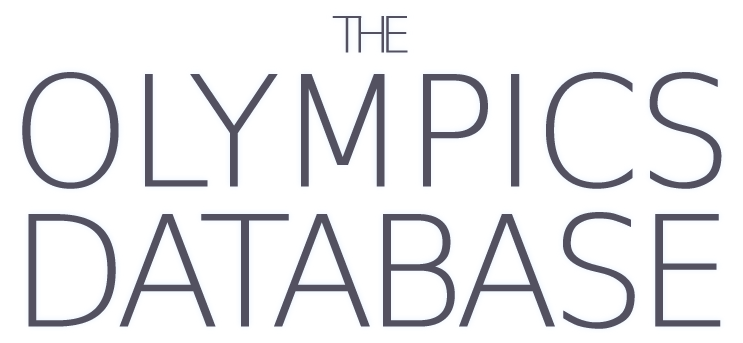
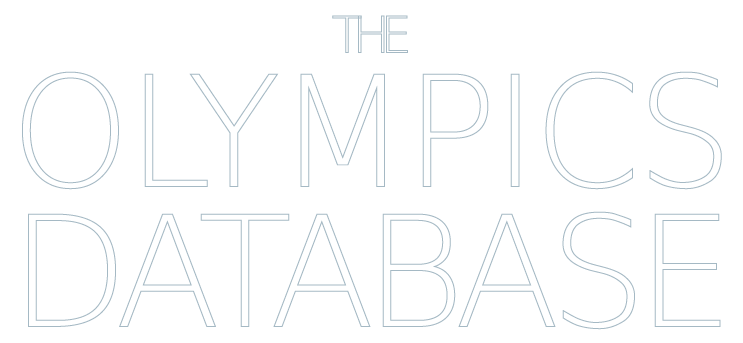
new kikass style

diff --git a/style.css b/style.css
@@ -8,7 +8,7 @@
 }
 
 body {
-    background: #052745;
+    background: #FFFFF;
     margin: 0;
     padding: 0;
 }
@@ -19,15 +19,15 @@ form {
     background: #222 url('img/olympic.png') no-repeat top left;
     background-clip: padding-box;
     
-    border-radius:         3px;
-    -moz-border-radius:    3px;
-    -o-border-radius:      3px;
-    -webkit-border-radius: 3px;
+	border-radius:         5px;
+    -moz-border-radius:    5px;
+    -o-border-radius:      5px;
+    -webkit-border-radius: 5px; 
     
-    box-shadow:         0 1px 5px #000;
-    -moz-box-shadow:    0 1px 5px #000;
-    -o-box-shadow:      0 1px 5px #000;
-    -webkit-box-shadow: 0 1px 5px #000;
+    box-shadow:         0px 0px 2px #000;
+    -moz-box-shadow:    0px 0px 1px #000;
+    -o-box-shadow:      0px 0px 1px #000;
+    -webkit-box-shadow: 0px 0px 1px #000; 
     
     height: 300px;
     margin: 50px auto;
@@ -36,32 +36,15 @@ form {
 }
 
 input:not(.addInfo) {
-    background: transparent;
-    background: rgba(163, 135, 106, 0.15);
-    background-clip: padding-box;
+    background: none;
     
-    border: none;
-    border-radius:         26px;
-    -moz-border-radius:    26px;
-    -o-border-radius:      26px;
-    -webkit-border-radius: 26px;
+    border: 1px solid rgba(255, 255, 255, 0.5);
+    border-radius:         5px;
+    -moz-border-radius:    5px;
+    -o-border-radius:      5px;
+    -webkit-border-radius: 5px;
     
-    box-shadow:         inset 0 0 5px rgba(0, 0, 0, 0.1), 
-                        0 1px 0 rgba(255, 255, 255, 0.5), 
-                        inset 0 1px 2px rgba(0, 0, 0, 0.3), 
-                        0 0 40px rgba(255, 255, 255, 0.3);
-    -moz-box-shadow:    inset 0 0 5px rgba(0, 0, 0, 0.1), 
-                        0 1px 0 rgba(255, 255, 255, 0.5), 
-                        inset 0 1px 2px rgba(0, 0, 0, 0.3), 
-                        0 0 40px rgba(255, 255, 255, 0.3);
-    -o-box-shadow:      inset 0 0 5px rgba(0, 0, 0, 0.1), 
-                        0 1px 0 rgba(255, 255, 255, 0.5), 
-                        inset 0 1px 2px rgba(0, 0, 0, 0.3), 
-                        0 0 40px rgba(255, 255, 255, 0.3);
-    -webkit-box-shadow: inset 0 0 5px rgba(0, 0, 0, 0.1), 
-                        0 1px 0 rgba(255, 255, 255, 0.5), 
-                        inset 0 1px 2px rgba(0, 0, 0, 0.3), 
-                        0 0 40px rgba(255, 255, 255, 0.3);
+
     
     color: rgba(255, 255, 255, 0.7);
 	font-size: 8pt;
@@ -81,24 +64,7 @@ input:not(.addInfo) {
 
 input:not(.addInfo):focus {
     background: transparent;
-    background: rgba(163, 135, 106, 0.2);
-
-    box-shadow:         inset 0 0 5px rgba(0, 0, 0, 0.2), 
-                        0 1px 0 rgba(255, 255, 255, 0.7), 
-                        inset 0 1px 2px rgba(0, 0, 0, 0.4), 
-                        0 0 40px rgba(255, 255, 255, 0.5);
-    -moz-box-shadow:    inset 0 0 5px rgba(0, 0, 0, 0.2), 
-                        0 1px 0 rgba(255, 255, 255, 0.7), 
-                        inset 0 1px 2px rgba(0, 0, 0, 0.4), 
-                        0 0 40px rgba(255, 255, 255, 0.5);
-    -o-box-shadow:      inset 0 0 5px rgba(0, 0, 0, 0.2), 
-                        0 1px 0 rgba(255, 255, 255, 0.7), 
-                        inset 0 1px 2px rgba(0, 0, 0, 0.4), 
-                        0 0 40px rgba(255, 255, 255, 0.5);
-    -webkit-box-shadow: inset 0 0 5px rgba(0, 0, 0, 0.2), 
-                        0 1px 0 rgba(255, 255, 255, 0.7), 
-                        inset 0 1px 2px rgba(0, 0, 0, 0.4), 
-                        0 0 40px rgba(255, 255, 255, 0.5);
+    background: rgba(160, 160, 160, 0.2);
 }
 
 input.addInfo{
@@ -129,62 +95,69 @@ p.advancedsearch {
 	text-align: center;
 	font-family: Arial, Verdana, sans-serif;
 	font-size: 8pt;
-	color: rgba(0, 0, 0, 0.8) ;
+	color: rgba(255, 255, 255, 1) ;
 	margin-top: 20px;
-	text-shadow: 0px 0px 2px #FFFFFF;
+	text-shadow: 0px 0px 1px #000;
 	cursor:pointer;
 }
 
-table {
+table:not(.menu){
 	width: 400px;
 	text-align: center;
 	font-family: Arial, Verdana, sans-serif;
-	text-shadow: 0px 1px 3px #000000;
-	background-color:#002038;
+	background-color:rgb(240, 240, 240);
 	border-spacing: 0px;
-	border: none;
+	border: 1px solid rgba(200, 200, 200, 1);
 	margin: 8px auto;
 	border-radius:         3px;
 	-moz-border-radius:    3px;
 	-o-border-radius:      3px;
 	-webkit-border-radius: 3px;
-	box-shadow:inset 0 0 5px #000000;
 }
 
 thead{
 	font-size: 8pt;
-	background-color: #001525;
-	color: #708599;
+	background-color: rgb(240, 240, 240);
+	color: #111;
 }
 
 td, th{
 padding: 5px;
 }
 
+table.menu{
+	width: 400px;
+	text-align: center;
+	font-family: Arial, Verdana, sans-serif;
+	border-spacing: 0px;
+	margin: 8px auto;
+	color:white;
+}
+
 table.menu td.current{
-	background-color: #002038;
-	box-shadow:inset 0 0 5px #000000;
+	background-color: #006687;
 }
 
 table.menu td:not(.current){
-	background-color:#052745;
+	background-color:#004566;
 	cursor:pointer;
 }
 
 table.menu td:not(.current):hover{
-	background-color: #002038;
+	background-color: #005076;
+
 }
 
 tbody{
 	font-size: 8pt;
-	color: rgba(255, 255, 255, 0.7)}
+	color: rgba(255, 255, 255)}
 
 .onglet:not(.current){
 	display:none;
 }
 
 table.onglet tbody tr:hover{
-	background-color: #052745;
+	background-color: rgb(230, 230, 230);
 	cursor:pointer;
 }
 
@@ -212,5 +185,10 @@ img.button {
 	position :absolute;
 	margin-left:0px;
 	cursor:pointer;
+}
+
+#bandeau_wrap{
+	background-color: #004566;
+	width:100%;
 }
 

diff --git a/index.html b/index.html
@@ -254,10 +254,10 @@ $(document).ready(function() {
 <a id="result"/>
 
 <!-- Onglets-->
-
+<div id="bandeau_wrap">
 <table class="menu"><tr><td targ="athlete">Athlete</td><td targ="country">Country</td>
 		<td targ="sport">Sport</td><td targ="discipline">Discipline</td><td targ="game">Game</td></tr></table>
-		
+</div>		
 
 <table class="onglet" id="athlete">
    <thead> <tr><th>ID</th> <th>Name</th><th>Country</th> <th>Sport</th></tr>
